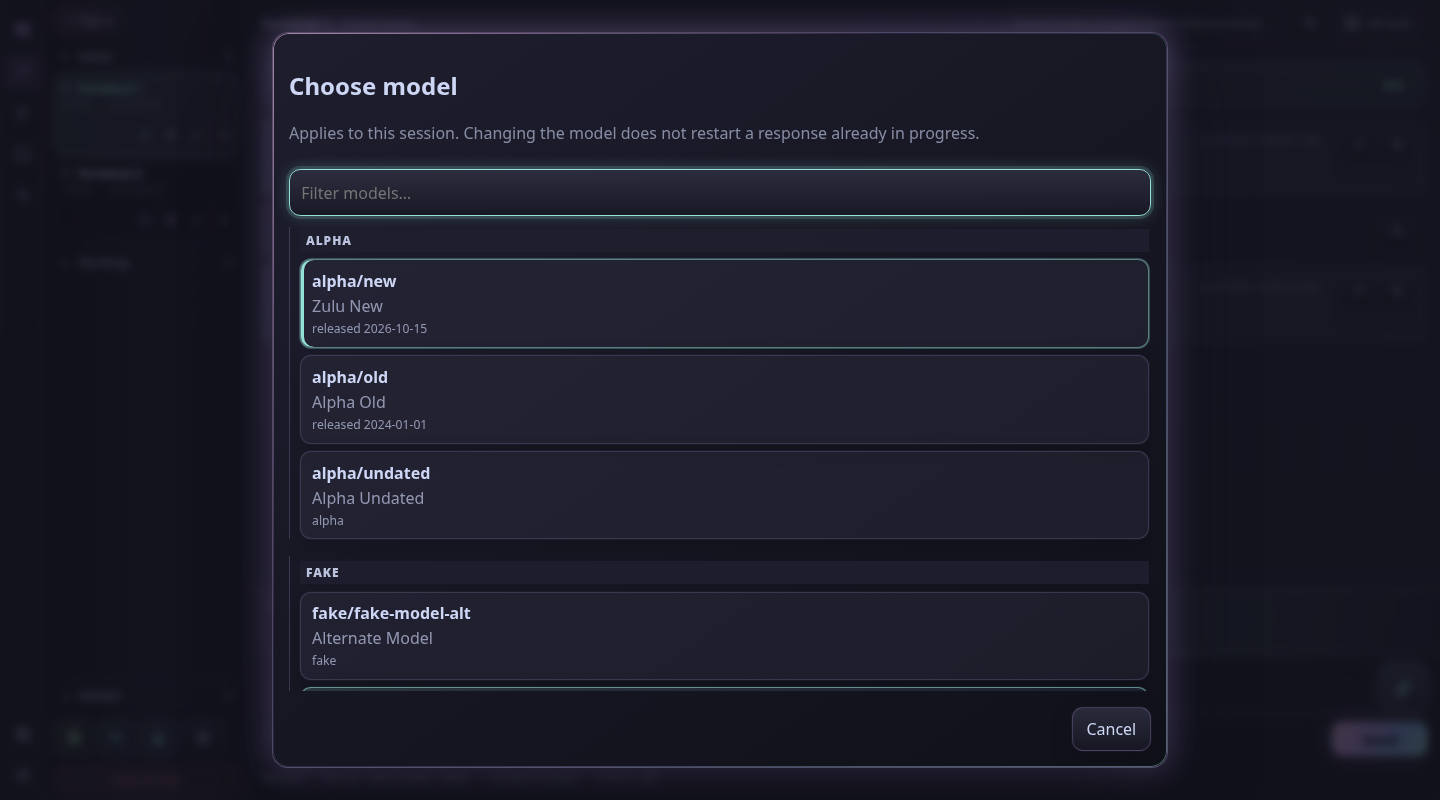
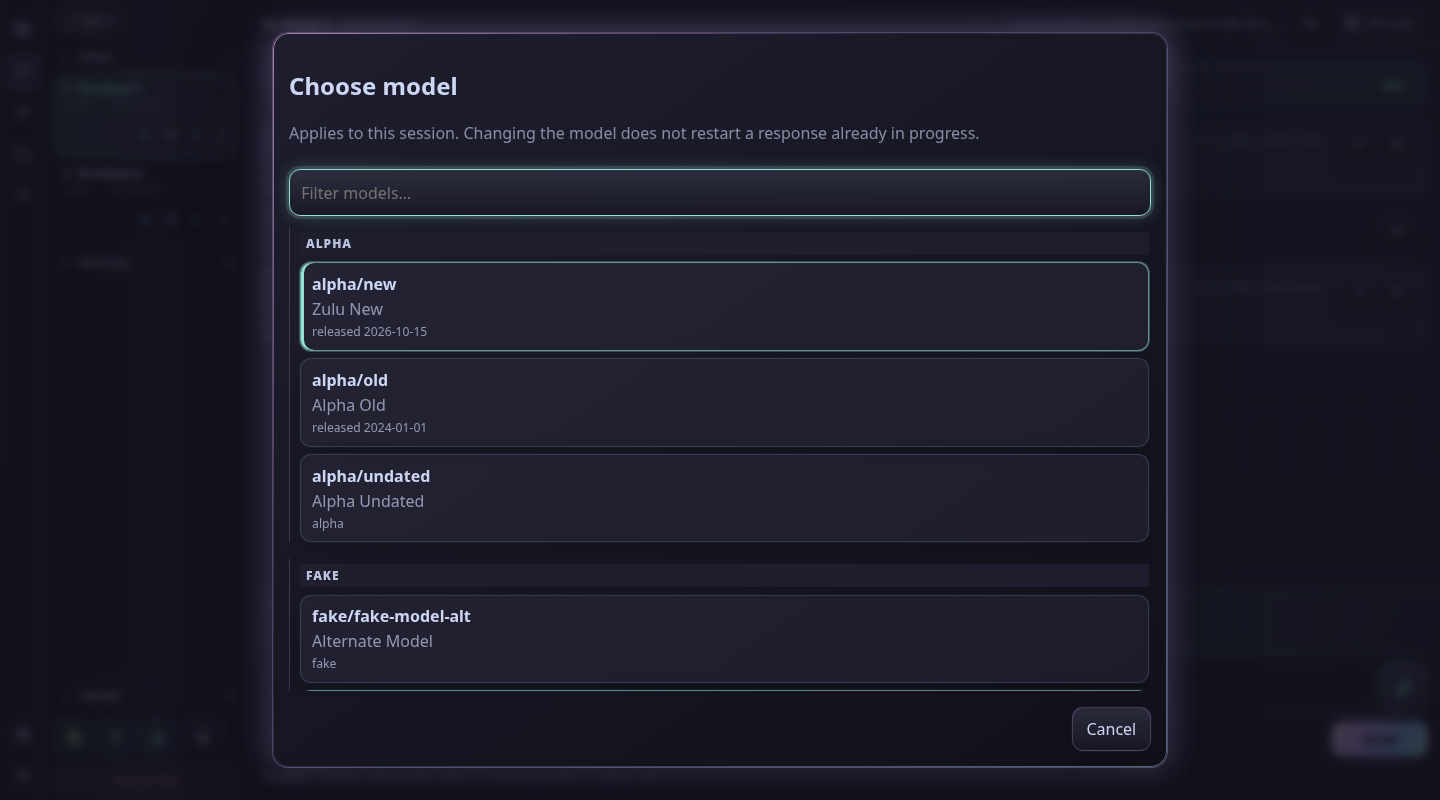
docs(webui): prepare control refinements PR update

Changed region(s): [[0.2188, 0.2812, 0.8125, 0.6875], [0.2188, 0.8438, 0.7812, 0.875], [0.2188, 0.7188, 0.3438, 0.8125]]

diff --git a/dev/PR/feat/webui-compact-workspace.md b/dev/PR/feat/webui-compact-workspace.md
@@ -1,0 +1,99 @@
+The WebUI had accumulated competing controls and configuration panels. This overhaul gives frequent work a compact home while preserving Pi’s themes, backgrounds, typography, and existing feature scopes.
+
+Conversation, Project, Activity, and searchable Settings now have clear destinations. All tools provides categorized search and pins; contextual actions reveal less frequent features. Focused controllers own session, composer, feature, and view state. Backend services retain existing HTTP/SSE, supervisor, security, and persistence contracts.
+
+Existing installations keep Classic unless you select **Controls → Interface → Desktop layout → Compact preview**. Proven fresh installations default to compact desktop. Browser preferences take precedence, and `?shell=classic` provides recovery without deleting saved arrangements.
+
+The follow-up Terra live pass fixes off-screen new-tab choices, misleading feature summaries, phone file-action overlap, directory-picker cancellation and focus, repository-specific Git confirmation, and error notices covering mobile Retry. All tools now returns nested picker focus to its visible opener.
+
+The interaction pass adds one visible composer submission action, effective session model/effort pickers, a decision/running/finished inbox, and six-item contextual menus backed by the same All tools catalog as Ctrl/Cmd+K. Model/effort failures stay inline, and captured session/dialog identities reject stale work.
+
+The More disclosure now expands into its own action row without stretching More or Send. Nested menus are no longer clipped. This CSS repair passed 16 focused browser checks and 25 affected static files; the full suites above were not repeated for this repair.
+
+### Validation
+
+- Current package validation: all 251 Node/static/harness files pass. All 51 new interaction browser cases pass.
+- Current complete Chromium run: 572/580 passed. Seven failures targeted the replaced model/effort controls; all seven pass after updating the tests while preserving their behavioral assertions. The unchanged Classic overlay test passed four subsequent runs, but its initial failure remains unexplained. Every case has passing evidence on the final production code; this is combined full-run and targeted-recheck evidence, not one uninterrupted green full run. No skips or automatic retries.
+- Two fresh Sol/high reviewers reported no actionable interaction findings, independently passing 41 unit/adapter cases and 71 browser cases. The follow-up test-selector repairs were verified by the parent. No second interaction review round was needed.
+- Earlier Terra polish validation passed 250 package files and 529 Chromium cases.
+- The original overhaul passed 20 remote-companion checks and 16 frozen measurement checks. Those measurements were not recaptured during polish or the interaction pass; the frozen references are unchanged.
+- Desktop secondary controls decrease 37.9% idle and 35.5% while streaming; phone/tablet counts do not increase. All original performance budgets passed with no lost final output in that measurement run.
+- Sol/high implementation and reviews used at most two rounds per overhaul wave. The Terra/high polish pass also completed two review rounds; accepted fixes were rechecked. The final mobile-notice repair received parent verification and the complete suite, with no third review round.
+- Inventory, required packaged assets, documentation links and whitespace checks pass. Internal evidence is excluded from the npm package.
+
+Linux Chromium, including genuine 200% zoom, is verified. Physical mobile keyboards/IME, Windows/macOS execution, WebKit, microphones, and live installed-provider/companion combinations remain unmeasured.
+
+See the [implementation record](https://github.com/Firstp1ck/pi-coding-agent-forge/blob/2fb0644032e2398e33dc9729e8dcbee3f4029dc0/pi-package-webui/docs/overhaul/implementation-record.md) for architecture, measurements, and verification boundaries.
+
+The audits do not establish exhaustive coverage of every individual control/state. Live provider/companion installation, remote/PIN combinations, notification permissions/click behavior, real updates and publishing remain unverified.
+
+### Screenshots
+
+These captures show the implemented UI with disposable test sessions and the existing Pi theme.
+
+<details open>
+<summary>Current interaction controls</summary>
+
+![More actions stay compact beside the Project inspector](https://raw.githubusercontent.com/Firstp1ck/pi-coding-agent-forge/2fb0644032e2398e33dc9729e8dcbee3f4029dc0/pi-package-webui/docs/overhaul/screenshots/interaction/more-expanded.png)
+
+![One composer action with visible busy delivery choice](https://raw.githubusercontent.com/Firstp1ck/pi-coding-agent-forge/ea4bffa33295de54024f887e12de56c9d8de72c1/pi-package-webui/docs/overhaul/screenshots/interaction/busy-composer.png)
+
+![Attention inbox groups decisions, running work and unseen completions](https://raw.githubusercontent.com/Firstp1ck/pi-coding-agent-forge/ea4bffa33295de54024f887e12de56c9d8de72c1/pi-package-webui/docs/overhaul/screenshots/interaction/attention-inbox.png)
+
+![Immediate model picker shows the current session model](https://raw.githubusercontent.com/Firstp1ck/pi-coding-agent-forge/ea4bffa33295de54024f887e12de56c9d8de72c1/pi-package-webui/docs/overhaul/screenshots/interaction/model-picker.png)
+
+</details>
+
+**Desktop workspace before the interaction pass**
+
+![Compact desktop workspace](https://raw.githubusercontent.com/Firstp1ck/pi-coding-agent-forge/135936a979d18fe43fa6ba1ca6f342faa95f28fa/pi-package-webui/docs/overhaul/screenshots/desktop.png)
+
+<details>
+<summary>All tools and searchable Settings</summary>
+
+![Categorized All tools launcher](https://raw.githubusercontent.com/Firstp1ck/pi-coding-agent-forge/135936a979d18fe43fa6ba1ca6f342faa95f28fa/pi-package-webui/docs/overhaul/screenshots/all-tools.png)
+
+![Searchable Settings](https://raw.githubusercontent.com/Firstp1ck/pi-coding-agent-forge/135936a979d18fe43fa6ba1ca6f342faa95f28fa/pi-package-webui/docs/overhaul/screenshots/settings.png)
+
+</details>
+
+<details>
+<summary>Mobile conversation</summary>
+
+<img src="https://raw.githubusercontent.com/Firstp1ck/pi-coding-agent-forge/135936a979d18fe43fa6ba1ca6f342faa95f28fa/pi-package-webui/docs/overhaul/screenshots/mobile.png" width="390" alt="Compact mobile conversation with bottom navigation">
+
+</details>
+
+<details>
+<summary>Polish: mobile file actions and repository confirmation</summary>
+
+<img src="https://raw.githubusercontent.com/Firstp1ck/pi-coding-agent-forge/0941054231a6f2dd13f2018828f516b3c16d3ae3/pi-package-webui/docs/overhaul/screenshots/polish/mobile-file-actions.png" width="390" alt="Mobile file actions remain clear of the Control Deck button">
+
+![Git confirmation identifies the selected repository](https://raw.githubusercontent.com/Firstp1ck/pi-coding-agent-forge/0941054231a6f2dd13f2018828f516b3c16d3ae3/pi-package-webui/docs/overhaul/screenshots/polish/git-confirmation.png)
+
+</details>
+
+Created with GPT-6 Astra and GPT-6.1 Sol in T3 Code through Codex. GPT-6.1 Sol workers implemented delegated changes and performed independent reviews.
+
+The follow-up live audits, delegated fixes and independent reviews used GPT-6.1 Terra at high reasoning effort in T3 Code through Codex.
+
+### Sidebar and control refinements
+
+- Sessions are grouped into Inbox, Working, and collapsed-by-default Settled. Settle/Restore is explicit; new work or input requests bring a session back. The session sidebar supports dragging and keyboard resizing with a saved browser preference.
+- Activity uses a grouped View picker instead of a horizontally scrolling topic strip. Scoped models is directly available beside Model.
+- Settings has a bottom-left gear and searchable homes for Sampling, Codex speed, Summary Setup, runner configuration, Git-footer Visibility, and saved tool-output expansion. Existing scopes, confirmations, and session/project ownership remain intact.
+- More/Send stay compact. Secondary actions occupy their own row, including minimized workflow controls. Short-window suggestions and nested menus retain reachable controls.
+- The full model catalog groups by provider, then explicit release date newest first with alphabetical fallback for undated entries. Wrapped provider headings cannot cover keyboard-selected models; saved scoped-model order is unchanged.
+
+Validation for this addition: all 254 package test files passed before the final CSS-only heading correction. The correction passed all eight model selection/hierarchy browser cases, 31 checks across 27 affected static files, inventory validation, and PWA181 offline/online recovery. The integrated run also passed 60 browser cases and 27 composer cases. These are affected-feature checks, not a new complete browser-suite or performance run. Final model review is pending; Settings, composer, Activity and sidebar findings are resolved.
+
+<details open>
+<summary>Latest controls with disposable test data</summary>
+
+![Compact composer and bottom-left Settings gear](https://raw.githubusercontent.com/Firstp1ck/pi-coding-agent-forge/feat/webui-compact-workspace/pi-package-webui/docs/overhaul/screenshots/controls/composer.png)
+
+![Model catalog grouped by provider and release date](https://raw.githubusercontent.com/Firstp1ck/pi-coding-agent-forge/feat/webui-compact-workspace/pi-package-webui/docs/overhaul/screenshots/controls/model-providers.png)
+
+![Activity section picker](https://raw.githubusercontent.com/Firstp1ck/pi-coding-agent-forge/feat/webui-compact-workspace/pi-package-webui/docs/overhaul/screenshots/navigation/activity-picker.png)
+
+</details>
